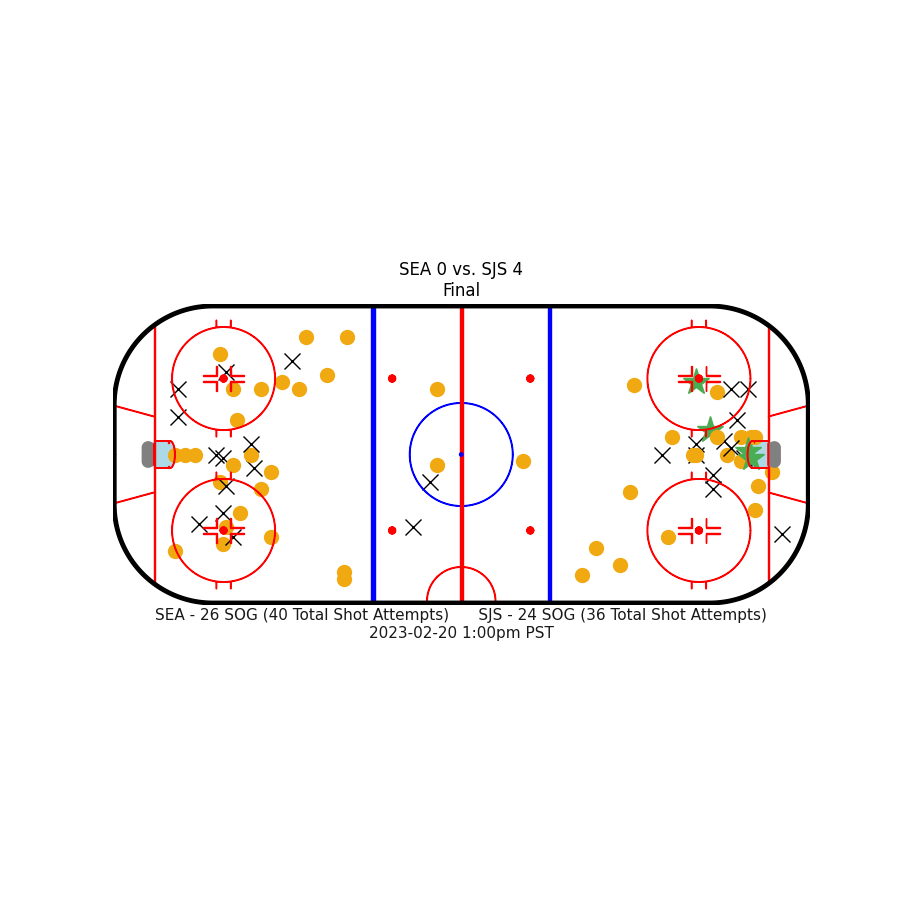
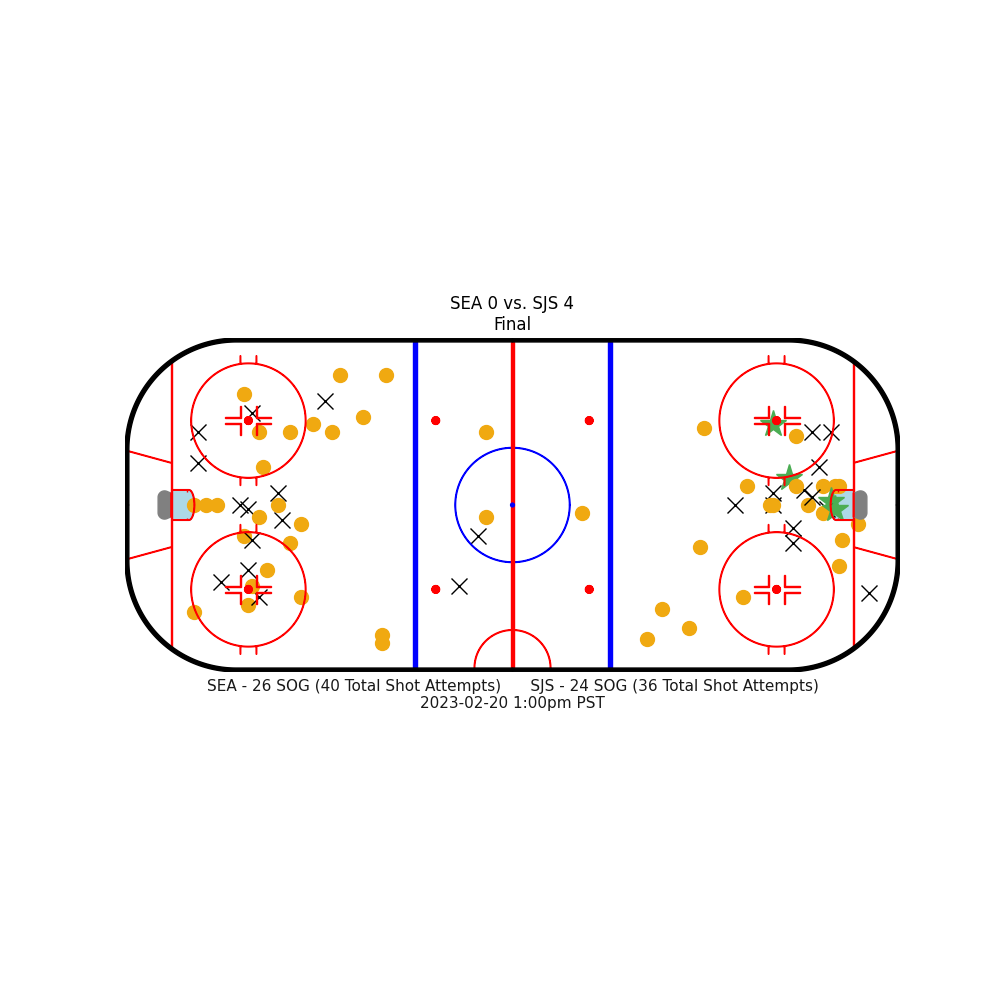
Return to 1000x1000px size plots for my NHL shot chart

diff --git a/examples/Python - NHL API - Generate a shot chart for a specific NHL game ID/NHLShotChart.py b/examples/Python - NHL API - Generate a shot chart for a specific NHL game ID/NHLShotChart.py
@@ -117,7 +117,7 @@ def generate_shot_chart_for_game(gameId):
     # --------------------------------------------------------------------------------------------------------
     # Define our scatter plot
     # --------------------------------------------------------------------------------------------------------
-    fig = plt.figure(figsize=(9, 9))
+    fig = plt.figure(figsize=(10, 10))
     plt.xlim([0, 100])
     plt.ylim([-42.5, 42.5])
 
